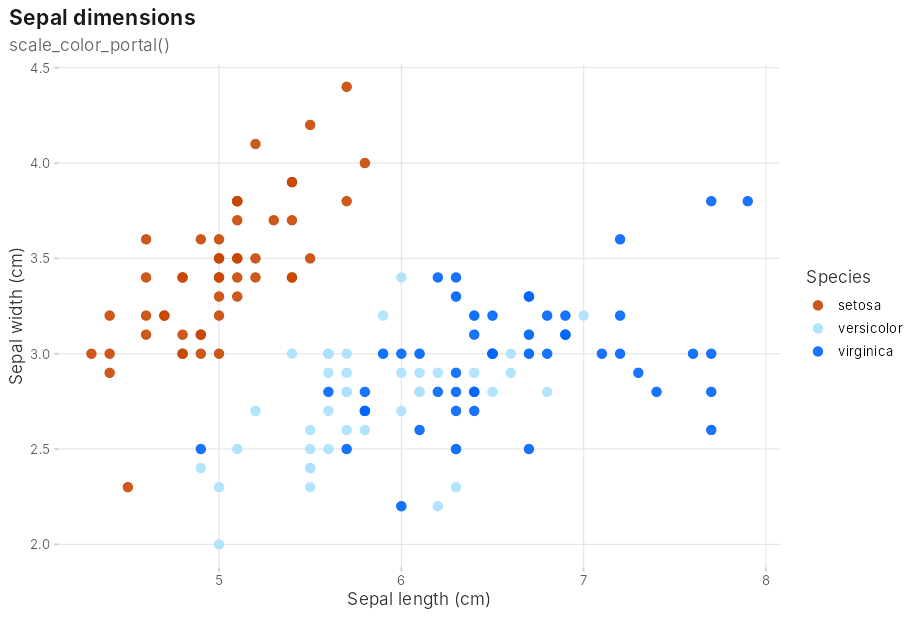
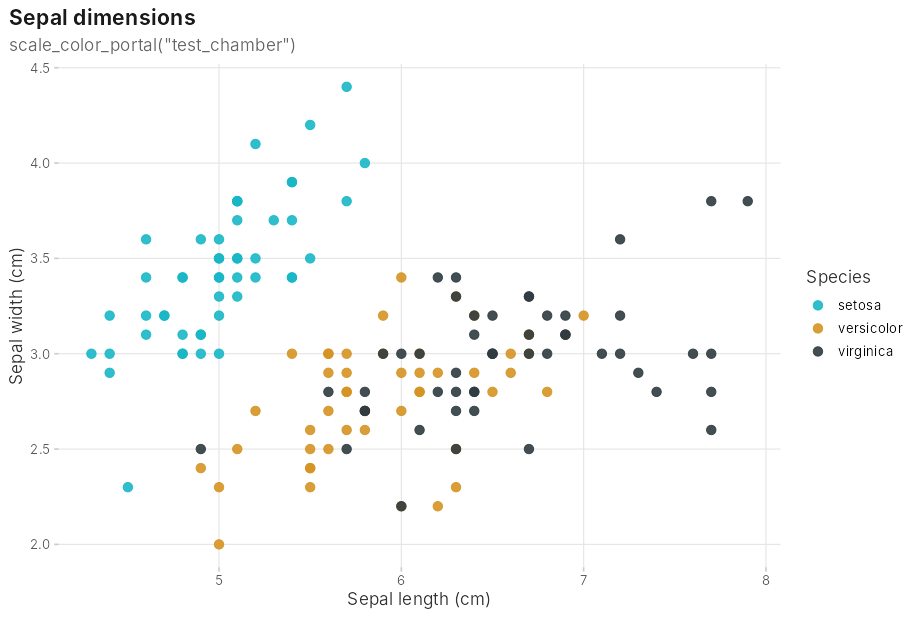
categorical palettes

diff --git a/README.md b/README.md
@@ -1,12 +1,14 @@
-# PortalPalette
+# PortalPalette <img src="man/figures/logo.png" align="right" height="139" alt="PortalPalette hex logo" />
 
 <!-- badges: start -->
 [![R-CMD-check](https://github.com/neuromancer32/PortalPalette/actions/workflows/R-CMD-check.yaml/badge.svg)](https://github.com/neuromancer32/PortalPalette/actions/workflows/R-CMD-check.yaml)
 <!-- badges: end -->
 
-Orange-and-blue color palettes for R and ggplot2, inspired by the game Portal.
+Color palettes for R and ggplot2, inspired by the Portal games.
 
-The default `portal` palette is a diverging orange → tan → blue palette, tuned so that each orange is as light as its matching blue. That keeps gradients visually balanced around their midpoint, which makes it a good fit for heatmaps of signed data such as log fold change, z-scores or correlations. Sequential `orange` and `blue` palettes cover data that only goes one way.
+- **Diverging:** the default `portal` palette runs orange → tan → blue, tuned so that each orange is as light as its matching blue. That keeps gradients visually balanced around their midpoint, which suits heatmaps of signed data such as log fold change, z-scores or correlations.
+- **Sequential:** `orange` and `blue` cover data that only goes one way.
+- **Categorical:** `test_chamber`, `overgrown` and `ratman` cover unordered groups such as cell types, conditions or clusters. Their colors were sampled from screenshots of each area, then adjusted so every pair stays distinguishable with common forms of color blindness.
 
 ![PortalPalette palettes](man/fig/Palette.png)
 
@@ -19,9 +21,9 @@ remotes::install_github("neuromancer32/PortalPalette")
 
 ## Usage
 
-### Discrete scales
+### Categorical data
 
-For up to as many groups as the palette has colors, discrete scales use exact palette colors rather than blends.
+Use a categorical palette when groups have no order. Each holds up to 6 groups, and the first colors are the most distinct, so plots with 2–3 groups get the strongest contrast.
 
 ```r
 library(ggplot2)
@@ -29,11 +31,15 @@ library(PortalPalette)
 
 ggplot(iris, aes(Sepal.Length, Sepal.Width, color = Species)) +
   geom_point(size = 3) +
-  scale_color_portal() +
+  scale_color_portal("test_chamber") +
   theme_portal()
 ```
 
-![Discrete scale](man/fig/Sepal.png)
+![Categorical scale](man/fig/Sepal.png)
+
+![Categorical palettes](man/fig/Categorical.png)
+
+Diverging and sequential palettes also work as discrete scales for *ordered* groups, such as dose levels or time points. With up to as many groups as the palette has colors, they use exact palette colors rather than blends.
 
 ### Sequential data
 
@@ -90,8 +96,12 @@ Useful scale arguments: `palette`, `discrete`, `reverse`, `midpoint`, `na.value`
 | `classic` | Diverging, original bright oranges | Matching figures made with version 0.1.0 |
 | `orange` | Sequential, light → dark | One-directional data |
 | `blue` | Sequential, light → dark | One-directional data |
+| `test_chamber` | Categorical, 6 colors | Unordered groups: clean, high-contrast |
+| `overgrown` | Categorical, 6 colors | Unordered groups: earthy greens and rust |
+| `ratman` | Categorical, 6 colors | Unordered groups: warm, gritty |
 
 ## Accessibility
 
-- **Color vision deficiency:** orange vs. blue lies along the blue–yellow axis, which stays distinguishable for the common red–green deficiencies (deuteranopia and protanopia). The closest pair is tan vs. light blue.
-- **Greyscale:** the sequential palettes keep their order in greyscale. The diverging palettes don't: because each orange matches its blue in lightness, greyscale shows *how far* a value is from the midpoint but not *which side* it's on (see the greyscale column above). For printed greyscale figures, use a sequential palette or label the direction explicitly.
+- **Color vision deficiency:** orange vs. blue lies along the blue–yellow axis, which stays distinguishable for the common red–green deficiencies (deuteranopia and protanopia). The closest pair is tan vs. light blue. Every categorical palette was checked so each pair of colors stays distinguishable under deuteranopia, protanopia and tritanopia; `overgrown` has the smallest margin (moss vs. rust), since green against rust is the hardest combination for red–green color blindness.
+- **Pale colors:** `test_chamber`'s panel white and `overgrown`'s sage are light, so they suit bars and fills better than small points on a white background.
+- **Greyscale:** the sequential palettes keep their order in greyscale. The categorical palettes don't survive greyscale; several pairs become the same grey. The diverging palettes don't: because each orange matches its blue in lightness, greyscale shows *how far* a value is from the midpoint but not *which side* it's on (see the greyscale column above). For printed greyscale figures, use a sequential palette or label the direction explicitly.

diff --git a/NEWS.md b/NEWS.md
@@ -1,3 +1,15 @@
+# PortalPalette 0.3.0
+
+## New features
+
+* New categorical palettes `"test_chamber"`, `"overgrown"` and `"ratman"` for
+  unordered groups (up to 6 each). Colors were sampled from reference
+  screenshots and adjusted so every pair stays distinguishable under
+  deuteranopia, protanopia and tritanopia. The first colors are the most
+  distinct.
+* Categorical palettes refuse continuous use or more groups than they have
+  colors, with an informative error.
+
 # PortalPalette 0.2.0
 
 ## Breaking changes
